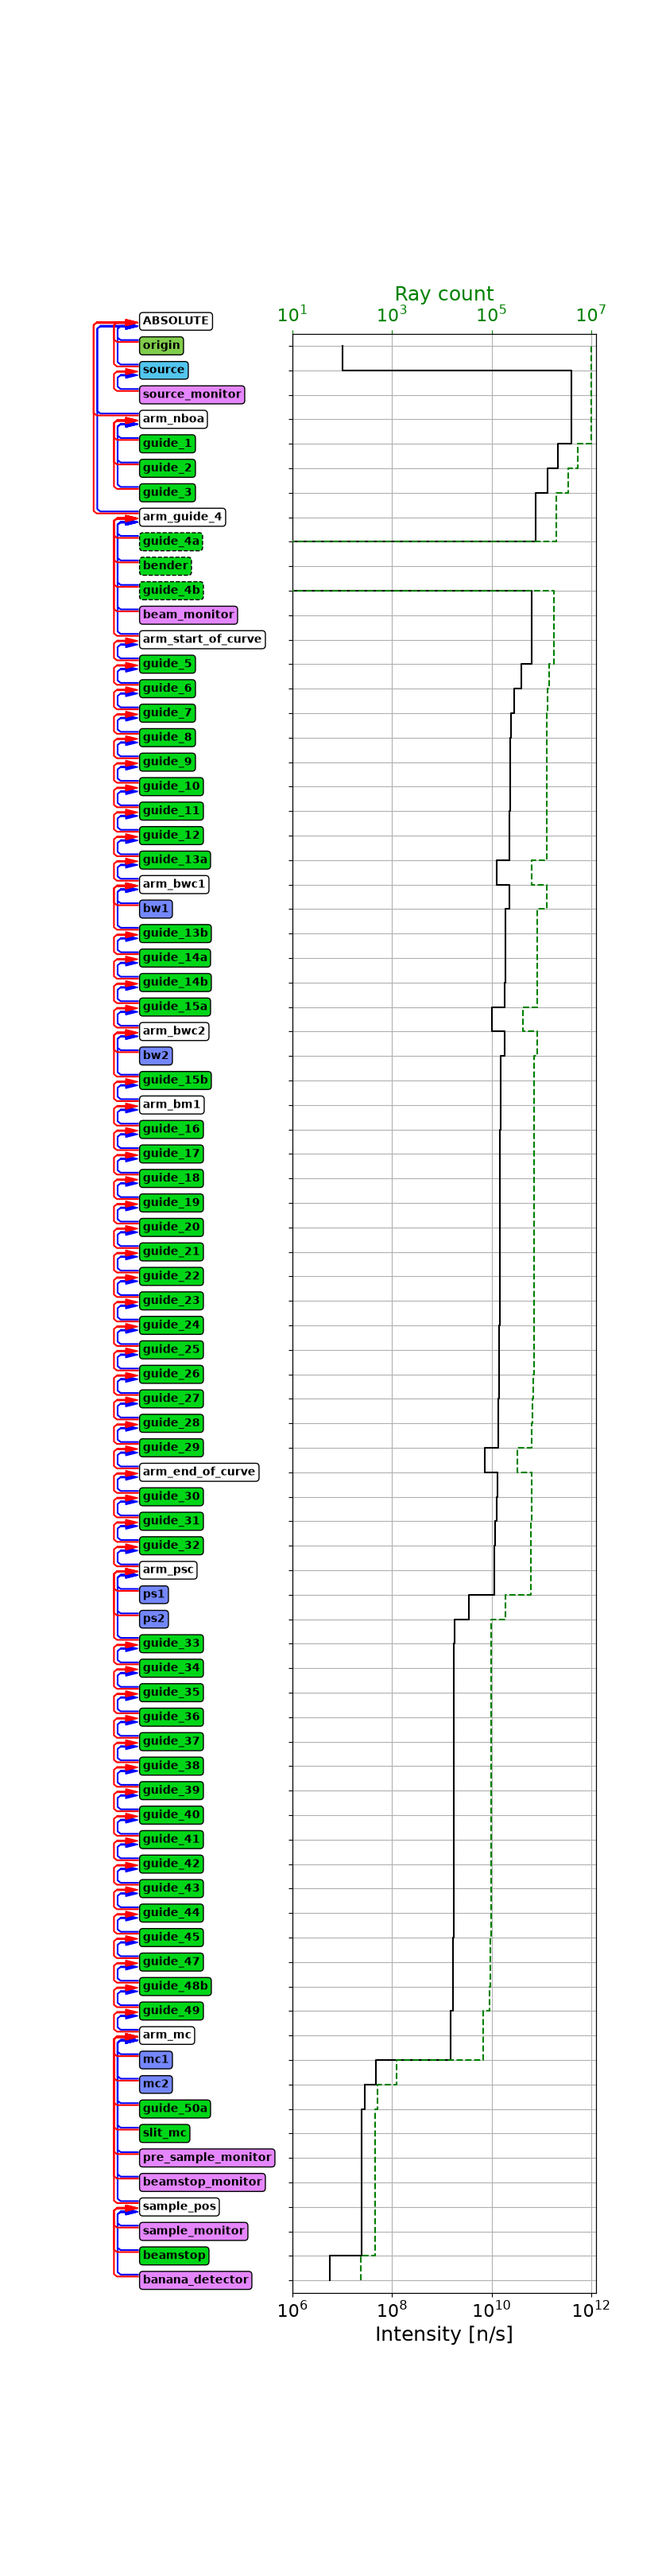
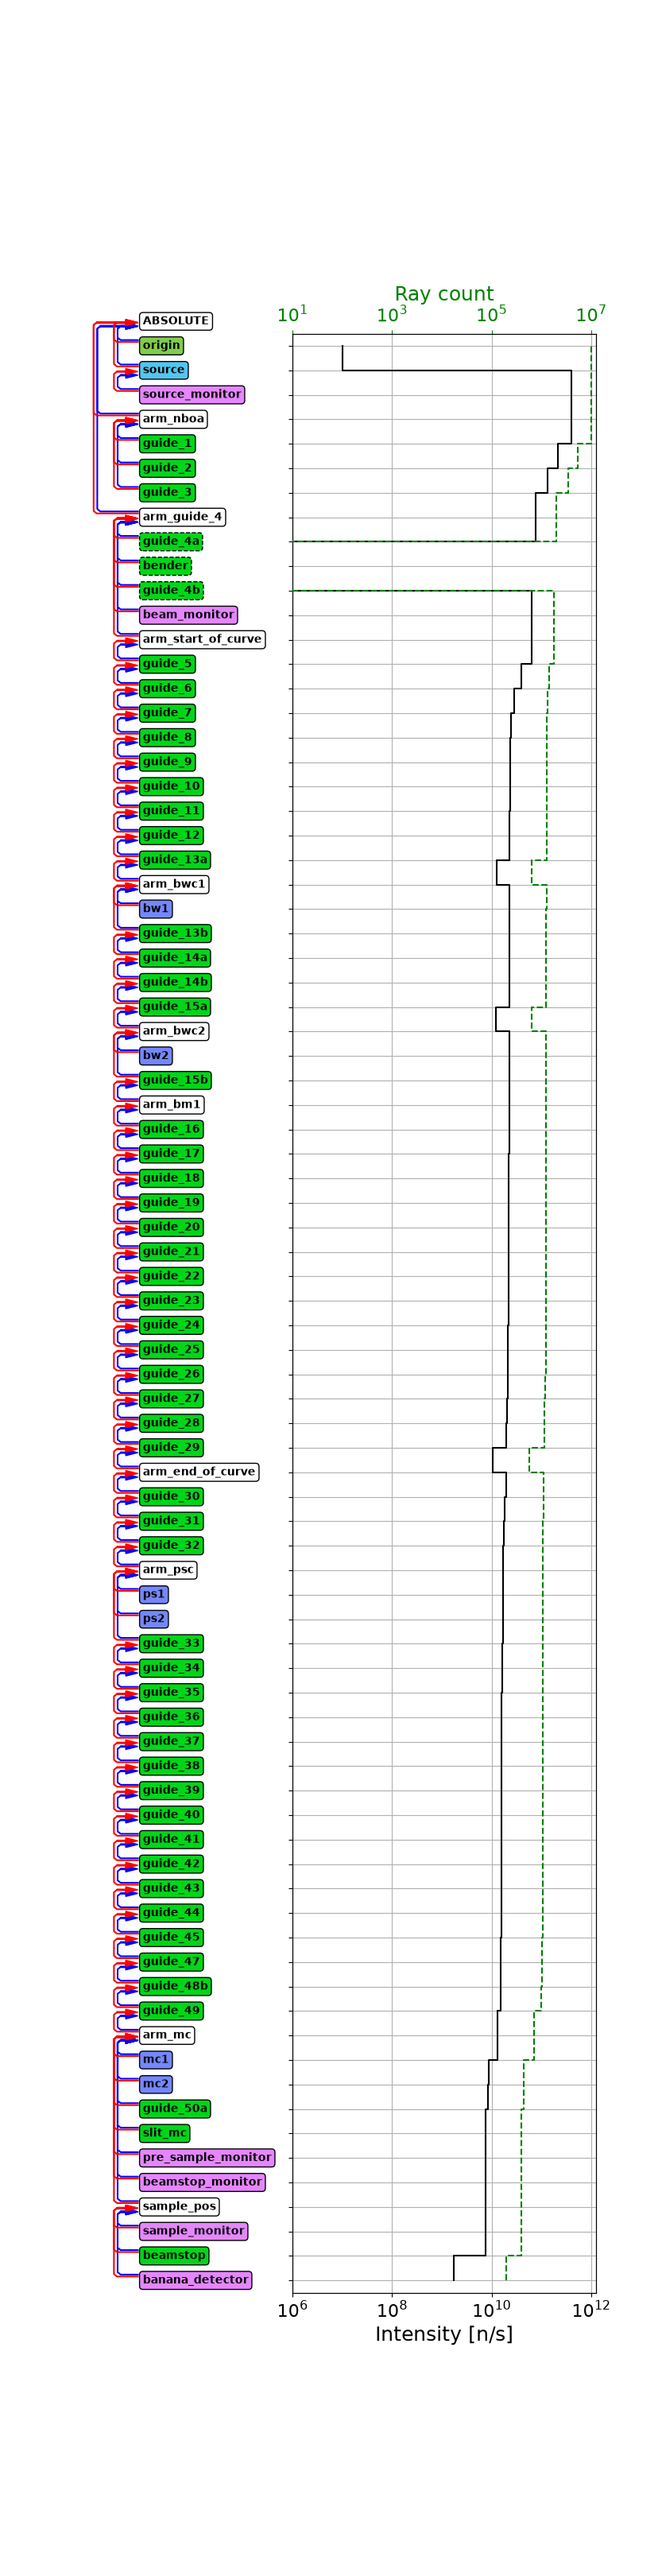
Park the choppers in beam_diagnostics and add points at the end of the straight guide and at the sample
Every chopper runs at 0 Hz, where NXdisk_chopper parks the disk with an opening on the beam, so
the beam reaches the sample position unchopped. The points add the end of the straight guide and
the sample position; the views are wavelength against time and the spectra in time and in
wavelength. The page describes the new figures and what a parked chopper does.

Changed region(s): [[0.7491, 0.3429, 0.8115, 0.5923]]

diff --git a/src/mcdgs/diagnostics/trex/beam_diagnostics.py b/src/mcdgs/diagnostics/trex/beam_diagnostics.py
@@ -1,10 +1,11 @@
 """McStasScript's diagnostics of T-Rex: the beam along the guides, and the intensity before each component.
 
-:func:`main` runs T-Rex at its default control parameters with :class:`.McStasScriptDiagnostics`,
-twice, and writes:
+:func:`main` runs T-Rex at its default control parameters, with every chopper parked at 0 Hz,
+with :class:`.McStasScriptDiagnostics`, twice, and writes:
 
-- ``trex_beam_diagnostics.png``: the beam after the source, before the first bandwidth chopper
-  and at the end of the curved guide; its profile, wavelength against x, and its spectrum;
+- ``trex_beam_diagnostics.png``: the beam after the source, before the first bandwidth chopper,
+  at the end of the curved guide, at the end of the straight guide and at the sample position;
+  its profile, wavelength against time, and its spectra in time and in wavelength;
 - ``trex_intensity.png``: McStasScript's diagram of the components, with the intensity and the
   number of rays just before each.
 
@@ -14,12 +15,19 @@ They are the figures of the how-to page on McStasScript's diagnostics. Run the m
 """
 
 from pathlib import Path
+from typing import Any
 
 from mcdgs.diagnostics import cli
+from mcdgs.instruments.trex.choppers import DISKS
 from mcdgs.instruments.trex.model import Params, TRex
 from mcdgs.mcstas import McStasScriptDiagnostics
 
 NAME = "trex_beam_diagnostics"
+
+# every chopper at 0 Hz: NXdisk_chopper then parks the disk with an opening on the beam, which
+# lets most of the beam through, unchopped; Any, as pyright matches the values of keywords
+# unpacked from a dict against every parameter of the run, not only the instrument parameters
+PARKED_CHOPPERS: dict[str, Any] = {f"nu_{name}": 0.0 for name in DISKS}
 
 
 # --8<-- [start:instrument]
@@ -40,6 +48,8 @@ def main(
 ) -> list[Path]:
     """Run T-Rex with McStasScript's diagnostics, then for its diagram, and save both figures.
 
+    Both runs park every chopper, at 0 Hz (:data:`PARKED_CHOPPERS`), so the beam reaches the
+    sample position unchopped, but for what the parked disks block.
     The runs go to the run folders ``trex_beam_diagnostics`` and
     ``trex_beam_diagnostics_analysis``, replaced on every run.
 
@@ -69,13 +79,15 @@ def main(
     diag.add_point(after="source")
     diag.add_point(before="bw1")  # the first bandwidth chopper
     diag.add_point(after="guide_29")  # the end of the curved guide
-    diag.add_point(after="guide_29")
+    diag.add_point(after="guide_50a")  # the end of the straight guide
+    diag.add_point(before="sample_pos")  # the sample position
 
     diag.add_view("x", "y", bins=100)  # the beam profile
-    diag.add_view("t", "l", bins=100)  # wavelength against x
-    # diag.add_view("l")  # the spectrum
+    diag.add_view("t", "l", bins=100)  # wavelength against time
+    diag.add_view("t")  # the time spectrum
+    diag.add_view("l")  # the wavelength spectrum
 
-    run = diag.run(NAME, ncount=ncount, seed=seed)
+    run = diag.run(NAME, ncount=ncount, seed=seed, **PARKED_CHOPPERS)
     # --8<-- [end:diagnostics]
     print(f"Diagnostics in {run.folder}")
 
@@ -85,7 +97,9 @@ def main(
     # --8<-- [end:plot]
 
     # --8<-- [start:analysis]
-    run, fig = diag.run_analysis(f"{NAME}_analysis", ncount=analysis_ncount, seed=seed)
+    run, fig = diag.run_analysis(
+        f"{NAME}_analysis", ncount=analysis_ncount, seed=seed, **PARKED_CHOPPERS
+    )
     diagram = cli.save_figure(fig, folder / "trex_intensity.png", dpi=100)
     # --8<-- [end:analysis]
     return [diagnostics, diagram]

diff --git a/tests/diagnostics/test_trex_beam_diagnostics.py b/tests/diagnostics/test_trex_beam_diagnostics.py
@@ -28,6 +28,13 @@ def test_main_saves_the_diagnostics_and_the_diagram(tmp_path, monkeypatch):
     assert [p.name for p in paths] == ["trex_beam_diagnostics.png", "trex_intensity.png"]
     assert all(p.stat().st_size > 0 for p in paths)
     (name, kwargs, points), analysis = runs
-    assert (name, kwargs) == ("trex_beam_diagnostics", {"ncount": 1e3, "seed": 2})
-    assert [p["after"] or p["before"] for p in points] == ["source", "bw1", "guide_29"]
-    assert analysis == ("trex_beam_diagnostics_analysis", {"ncount": 1e4, "seed": 2})
+    parked = {f"nu_{name}": 0.0 for name in ("bw1", "bw2", "ps1", "ps2", "mc1", "mc2")}
+    assert (name, kwargs) == ("trex_beam_diagnostics", {"ncount": 1e3, "seed": 2, **parked})
+    assert [p["after"] or p["before"] for p in points] == [
+        "source",
+        "bw1",
+        "guide_29",
+        "guide_50a",
+        "sample_pos",
+    ]
+    assert analysis == ("trex_beam_diagnostics_analysis", {"ncount": 1e4, "seed": 2, **parked})

diff --git a/docs/how-to/run-mcstasscript-diagnostics.md b/docs/how-to/run-mcstasscript-diagnostics.md
@@ -3,7 +3,7 @@
 McStasScript has two tools to look inside a McStas run:
 
 - its **beam diagnostics**, which record the rays at points along the instrument and draw them as
-  histograms, such as the beam profile or the wavelength against x;
+  histograms, such as the beam profile or the wavelength against time;
 - its **analysis diagram**, which draws the components in beam order with the intensity and the
   number of rays just before each.
 
@@ -11,7 +11,7 @@ Both run McStas themselves. A [`McStasScriptDiagnostics`](../reference/mcstas.md
 same [workspace](run-a-simulation.md#where-the-files-go) as a `Simulation`, with a run folder and a
 [record](run-a-simulation.md#find-and-clean-up-runs) for every run. The examples are those of
 [`mcdgs.diagnostics.trex.beam_diagnostics`](../reference/diagnostics.md), which makes the figures
-of this page from `TRex` at its default parameters; the
+of this page from `TRex` at its default parameters, with every chopper parked; the
 [extraction guides](../instruments/trex/extraction.md) show both tools on the first 6 m of T-Rex.
 
 ```python
@@ -34,6 +34,20 @@ Add the points, where the rays are recorded, and the views, how each point is dr
 
 The code is that of its `main`, where `NAME` is `"trex_beam_diagnostics"`, the name of the run
 folder and of the figure, `ncount` is 1e6 and `seed` is 1, and `folder` is where the figures go.
+`PARKED_CHOPPERS` sets the frequency of every chopper, `nu_bw1` to `nu_mc2`, to 0, so that the
+beam reaches the sample position unchopped:
+
+```python
+PARKED_CHOPPERS = {f"nu_{name}": 0.0 for name in DISKS}  # DISKS of mcdgs.instruments.trex.choppers
+```
+
+!!! note "A chopper at 0 Hz is parked, not open"
+
+    At 0 Hz, McStas's `NXdisk_chopper` stands still with its zero mark at `park_angle`, 0 by
+    default, and a ray passes only through an opening that happens to be in front of the beam.
+    On T-Rex an opening is there on every disk, but some parked disks still block part of the
+    beam: at 1e5 neutrons, about 11000 rays reach `ps1` and 7200 reach `mc1`. With the choppers
+    turning, 9 of them reach the sample position; parked, about 4100.
 
 - A point is just `before` or just `after` a component, by its name in the instrument:
   `list(TRex().components)` gives them all. A name the instrument does not have raises a
@@ -58,15 +72,18 @@ also closes it:
 
 `plot` draws the last run. A view of two variables is drawn in the `turbo` colormap, where
 McStasScript would use `jet`; give `colormap=` to the view for another. At 1e6 neutrons and
-seed 1:
+seed 1, with the choppers parked:
 
-![The beam after the source, before the first bandwidth chopper and after the curved guide](figures/mcstasscript-diagnostics/trex_beam_diagnostics.png)
+![The beam after the source, before the first bandwidth chopper, at the end of the curved and of the straight guide, and at the sample position](figures/mcstasscript-diagnostics/trex_beam_diagnostics.png)
 
-After the source, the beam leaves the two moderators side by side, so wavelength against x has
-more short wavelengths at x below 0 and more long ones above it. Before the first bandwidth
-chopper, the beam fills the guide, ±0.03 m by ±0.04 m, with a spectrum of the same shape, about 20
-times lower. After the curved guide, past both bandwidth choppers, the band is about 1.3 to
-2.8 Å.
+After the source, the beam leaves the two moderators side by side within the pulse, about 3 ms
+long, at every wavelength of the band, 1.1 to 2.9 Å. Further along, a neutron arrives later the
+longer its wavelength, so wavelength against time is a band. The band keeps the length of the
+pulse while the flight time grows with the distance, so it looks thinner at every point. Before
+the first bandwidth chopper, the beam fills the guide, ±0.03 m by ±0.04 m, about 20 times lower
+than after the source. From there to the sample position, the wavelength spectrum keeps its
+shape, and drops by a factor of about 3. At the sample position, the beam is a spot about
+±0.015 m across.
 
 !!! warning "Every ray is kept, so keep `ncount` low"
 
@@ -79,9 +96,10 @@ times lower. After the curved guide, past both bandwidth choppers, the band is a
 
     McStasScript reads back every list of rays the run writes: those of the points, and those of
     the event monitors of the instrument, such as the `banana_detector` of T-Rex. A list with
-    exactly one ray fails the run as it is read. Past the choppers of T-Rex few rays are left: at
-    1e5 neutrons, about 9 reach `sample_pos` with the bender out, and 1 reaches the detector with
-    it in. Put the points before the choppers, and run enough neutrons for the detector.
+    exactly one ray fails the run as it is read. Past the turning choppers of T-Rex few rays are
+    left: at 1e5 neutrons, about 9 reach `sample_pos` with the bender out, and 1 reaches the
+    detector with it in. Put the points before the choppers, park them, or run enough neutrons
+    for the detector.
 
 ### The same diagnostics on more runs
 
@@ -111,15 +129,17 @@ each, on a log scale. Each step of the line is what one component loses:
 ```
 <!-- fmt:on -->
 
-It needs no points or views. At 1e7 neutrons and seed 1:
+It needs no points or views. At 1e7 neutrons and seed 1, with the choppers parked:
 
 ![The components of T-Rex and the intensity before each](figures/mcstasscript-diagnostics/trex_intensity.png)
 
 The arrows on the left go from each component to the one it is placed relative to. A component
 with a dashed box takes part only under a condition, such as guide 4a, the bender and guide 4b,
-which depend on `bender_in`; the line is not to be read there. The intensity falls from about
-1e12 n/s after the source to about 1e7 n/s at the detector; the largest steps are at the
-pulse-shaping choppers, `ps1` and `ps2`, and the monochromatic choppers, `mc1` and `mc2`.
+which depend on `bender_in`; the line is not to be read there. The intensity falls from a few
+1e11 n/s after the source to a little below 1e10 n/s at the sample position. Most of it is lost
+in the first guides; the parked choppers take little. With the choppers turning, the
+pulse-shaping and monochromatic choppers take the largest steps, down to about 1e7 n/s at the
+detector.
 
 McStasScript has no range for the intensity
 axis, so `intensity_limits`, in n/s, sets it, such as to see the losses along the guides:
@@ -137,7 +157,8 @@ not. The folder of the run also holds the monitors of the instrument.
 
 Each run writes a folder in `runs/` of the workspace, like every run of a `Simulation`:
 `<time>_diagnose` for `run` and `<time>_analysis` for `run_analysis`, unless given a name, such as
-`trex_beam_diagnostics` above. A `folder_name` is replaced on every run. They are found and cleaned up by their type:
+`trex_beam_diagnostics` above. A `folder_name` is replaced on every run. They are found and
+cleaned up by their type:
 
 ```python
 from mcdgs.mcstas import RunType
